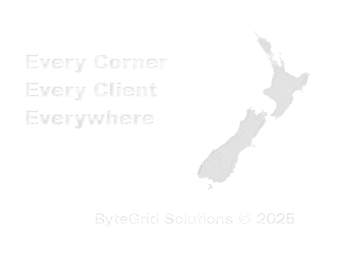
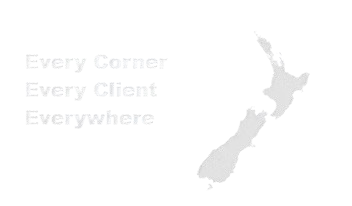
Update footer

diff --git a/about.html b/about.html
@@ -338,12 +338,9 @@
                         </div>
                     </div>
                     <div class="col-md-6 col-lg-4">
-                        <h5 class="text-white mb-4">Popular Link</h5>
-                        <a class="btn btn-link" href="">About Us</a>
-                        <a class="btn btn-link" href="">Contact Us</a>
+                        <h5 class="text-white mb-4">Other Links</h5>
                         <a class="btn btn-link" href="">Privacy Policy</a>
                         <a class="btn btn-link" href="">Terms & Condition</a>
-                        <!--<a class="btn btn-link" href="">Career</a>-->
                     </div>
                     <div class="col-md-6 col-lg-4">
                         <img class="img-fluid" src="img/bytegrid-footer.png" alt="Image">
@@ -384,20 +381,20 @@
             <div class="container px-lg-5">
                 <div class="copyright">
                     <div class="row">
-                        <div class="col-md-6 text-center text-md-start mb-3 mb-md-0">
+                        <div class="col-md-12 text-center mb-3 mb-md-0">
                             &copy; <a class="border-bottom" href="#">ByteGrid Solutions</a>, All Right Reserved. 
 							<!--/*** The author’s attribution link below must remain intact on your website. ***/-->
                             <!--/*** If you wish to remove this credit link, please purchase the Pro Version from https://htmlcodex.com . ***/
                             Designed By <a class="border-bottom" href="https://htmlcodex.com">HTML Codex</a>-->
                         </div>
-                        <div class="col-md-6 text-center text-md-end">
+                        <!--<div class="col-md-6 text-center text-md-end">
                             <div class="footer-menu">
                                 <a href="">Home</a>
                                 <a href="">Cookies</a>
                                 <a href="">Help</a>
                                 <a href="">FAQs</a>
                             </div>
-                        </div>
+                        </div>-->
                     </div>
                 </div>
             </div>

diff --git a/contact.html b/contact.html
@@ -508,12 +508,9 @@
                         </div>
                     </div>
                     <div class="col-md-6 col-lg-4">
-                        <h5 class="text-white mb-4">Popular Link</h5>
-                        <a class="btn btn-link" href="">About Us</a>
-                        <a class="btn btn-link" href="">Contact Us</a>
+                        <h5 class="text-white mb-4">Other Links</h5>
                         <a class="btn btn-link" href="">Privacy Policy</a>
                         <a class="btn btn-link" href="">Terms & Condition</a>
-                        <!--<a class="btn btn-link" href="">Career</a>-->
                     </div>
                     <div class="col-md-6 col-lg-4">
                         <img class="img-fluid" src="img/bytegrid-footer.png" alt="Image">
@@ -554,20 +551,20 @@
             <div class="container px-lg-5">
                 <div class="copyright">
                     <div class="row">
-                        <div class="col-md-6 text-center text-md-start mb-3 mb-md-0">
+                        <div class="col-md-12 text-center mb-3 mb-md-0">
                             &copy; <a class="border-bottom" href="#">ByteGrid Solutions</a>, All Right Reserved. 
 							<!--/*** The author’s attribution link below must remain intact on your website. ***/-->
                             <!--/*** If you wish to remove this credit link, please purchase the Pro Version from https://htmlcodex.com . ***/
                             Designed By <a class="border-bottom" href="https://htmlcodex.com">HTML Codex</a>-->
                         </div>
-                        <div class="col-md-6 text-center text-md-end">
+                        <!--<div class="col-md-6 text-center text-md-end">
                             <div class="footer-menu">
                                 <a href="">Home</a>
                                 <a href="">Cookies</a>
                                 <a href="">Help</a>
                                 <a href="">FAQs</a>
                             </div>
-                        </div>
+                        </div>-->
                     </div>
                 </div>
             </div>

diff --git a/managed-outsourcing.html b/managed-outsourcing.html
@@ -266,12 +266,9 @@
                         </div>
                     </div>
                     <div class="col-md-6 col-lg-4">
-                        <h5 class="text-white mb-4">Popular Link</h5>
-                        <a class="btn btn-link" href="">About Us</a>
-                        <a class="btn btn-link" href="">Contact Us</a>
+                        <h5 class="text-white mb-4">Other Links</h5>
                         <a class="btn btn-link" href="">Privacy Policy</a>
                         <a class="btn btn-link" href="">Terms & Condition</a>
-                        <!--<a class="btn btn-link" href="">Career</a>-->
                     </div>
                     <div class="col-md-6 col-lg-4">
                         <img class="img-fluid" src="img/bytegrid-footer.png" alt="Image">
@@ -312,20 +309,20 @@
             <div class="container px-lg-5">
                 <div class="copyright">
                     <div class="row">
-                        <div class="col-md-6 text-center text-md-start mb-3 mb-md-0">
+                        <div class="col-md-12 text-center mb-3 mb-md-0">
                             &copy; <a class="border-bottom" href="#">ByteGrid Solutions</a>, All Right Reserved. 
 							<!--/*** The author’s attribution link below must remain intact on your website. ***/-->
                             <!--/*** If you wish to remove this credit link, please purchase the Pro Version from https://htmlcodex.com . ***/
                             Designed By <a class="border-bottom" href="https://htmlcodex.com">HTML Codex</a>-->
                         </div>
-                        <div class="col-md-6 text-center text-md-end">
+                        <!--<div class="col-md-6 text-center text-md-end">
                             <div class="footer-menu">
                                 <a href="">Home</a>
                                 <a href="">Cookies</a>
                                 <a href="">Help</a>
                                 <a href="">FAQs</a>
                             </div>
-                        </div>
+                        </div>-->
                     </div>
                 </div>
             </div>

diff --git a/explore.html b/explore.html
@@ -375,12 +375,9 @@
                     </div>
                 </div>
                 <div class="col-md-6 col-lg-4">
-                    <h5 class="text-white mb-4">Popular Link</h5>
-                    <a class="btn btn-link" href="">About Us</a>
-                    <a class="btn btn-link" href="">Contact Us</a>
+                    <h5 class="text-white mb-4">Other Links</h5>
                     <a class="btn btn-link" href="">Privacy Policy</a>
                     <a class="btn btn-link" href="">Terms & Condition</a>
-                    <!--<a class="btn btn-link" href="">Career</a>-->
                 </div>
                 <div class="col-md-6 col-lg-4">
                     <img class="img-fluid" src="img/bytegrid-footer.png" alt="Image">
@@ -421,20 +418,20 @@
         <div class="container px-lg-5">
             <div class="copyright">
                 <div class="row">
-                    <div class="col-md-6 text-center text-md-start mb-3 mb-md-0">
+                    <div class="col-md-12 text-center mb-3 mb-md-0">
                         &copy; <a class="border-bottom" href="#">ByteGrid Solutions</a>, All Right Reserved. 
                         <!--/*** The author’s attribution link below must remain intact on your website. ***/-->
                         <!--/*** If you wish to remove this credit link, please purchase the Pro Version from https://htmlcodex.com . ***/
                         Designed By <a class="border-bottom" href="https://htmlcodex.com">HTML Codex</a>-->
                     </div>
-                    <div class="col-md-6 text-center text-md-end">
+                    <!--<div class="col-md-6 text-center text-md-end">
                         <div class="footer-menu">
                             <a href="">Home</a>
                             <a href="">Cookies</a>
                             <a href="">Help</a>
                             <a href="">FAQs</a>
                         </div>
-                    </div>
+                    </div>-->
                 </div>
             </div>
         </div>

diff --git a/shortlist.html b/shortlist.html
@@ -241,12 +241,9 @@
                     </div>
                 </div>
                 <div class="col-md-6 col-lg-4">
-                    <h5 class="text-white mb-4">Popular Link</h5>
-                    <a class="btn btn-link" href="">About Us</a>
-                    <a class="btn btn-link" href="">Contact Us</a>
+                    <h5 class="text-white mb-4">Other Links</h5>
                     <a class="btn btn-link" href="">Privacy Policy</a>
                     <a class="btn btn-link" href="">Terms & Condition</a>
-                    <!--<a class="btn btn-link" href="">Career</a>-->
                 </div>
                 <div class="col-md-6 col-lg-4">
                     <img class="img-fluid" src="img/bytegrid-footer.png" alt="Image">
@@ -287,20 +284,20 @@
         <div class="container px-lg-5">
             <div class="copyright">
                 <div class="row">
-                    <div class="col-md-6 text-center text-md-start mb-3 mb-md-0">
+                    <div class="col-md-12 text-center mb-3 mb-md-0">
                         &copy; <a class="border-bottom" href="#">ByteGrid Solutions</a>, All Right Reserved. 
                         <!--/*** The author’s attribution link below must remain intact on your website. ***/-->
                         <!--/*** If you wish to remove this credit link, please purchase the Pro Version from https://htmlcodex.com . ***/
                         Designed By <a class="border-bottom" href="https://htmlcodex.com">HTML Codex</a>-->
                     </div>
-                    <div class="col-md-6 text-center text-md-end">
+                    <!--<div class="col-md-6 text-center text-md-end">
                         <div class="footer-menu">
                             <a href="">Home</a>
                             <a href="">Cookies</a>
                             <a href="">Help</a>
                             <a href="">FAQs</a>
                         </div>
-                    </div>
+                    </div>-->
                 </div>
             </div>
         </div>

diff --git a/index.html b/index.html
@@ -483,7 +483,6 @@
                         <h5 class="text-white mb-4">Other Links</h5>
                         <a class="btn btn-link" href="">Privacy Policy</a>
                         <a class="btn btn-link" href="">Terms & Condition</a>
-                        <!--<a class="btn btn-link" href="">Career</a>-->
                     </div>
                     <div class="col-md-6 col-lg-4">
                         <img class="img-fluid" src="img/bytegrid-footer.png" alt="Image">
